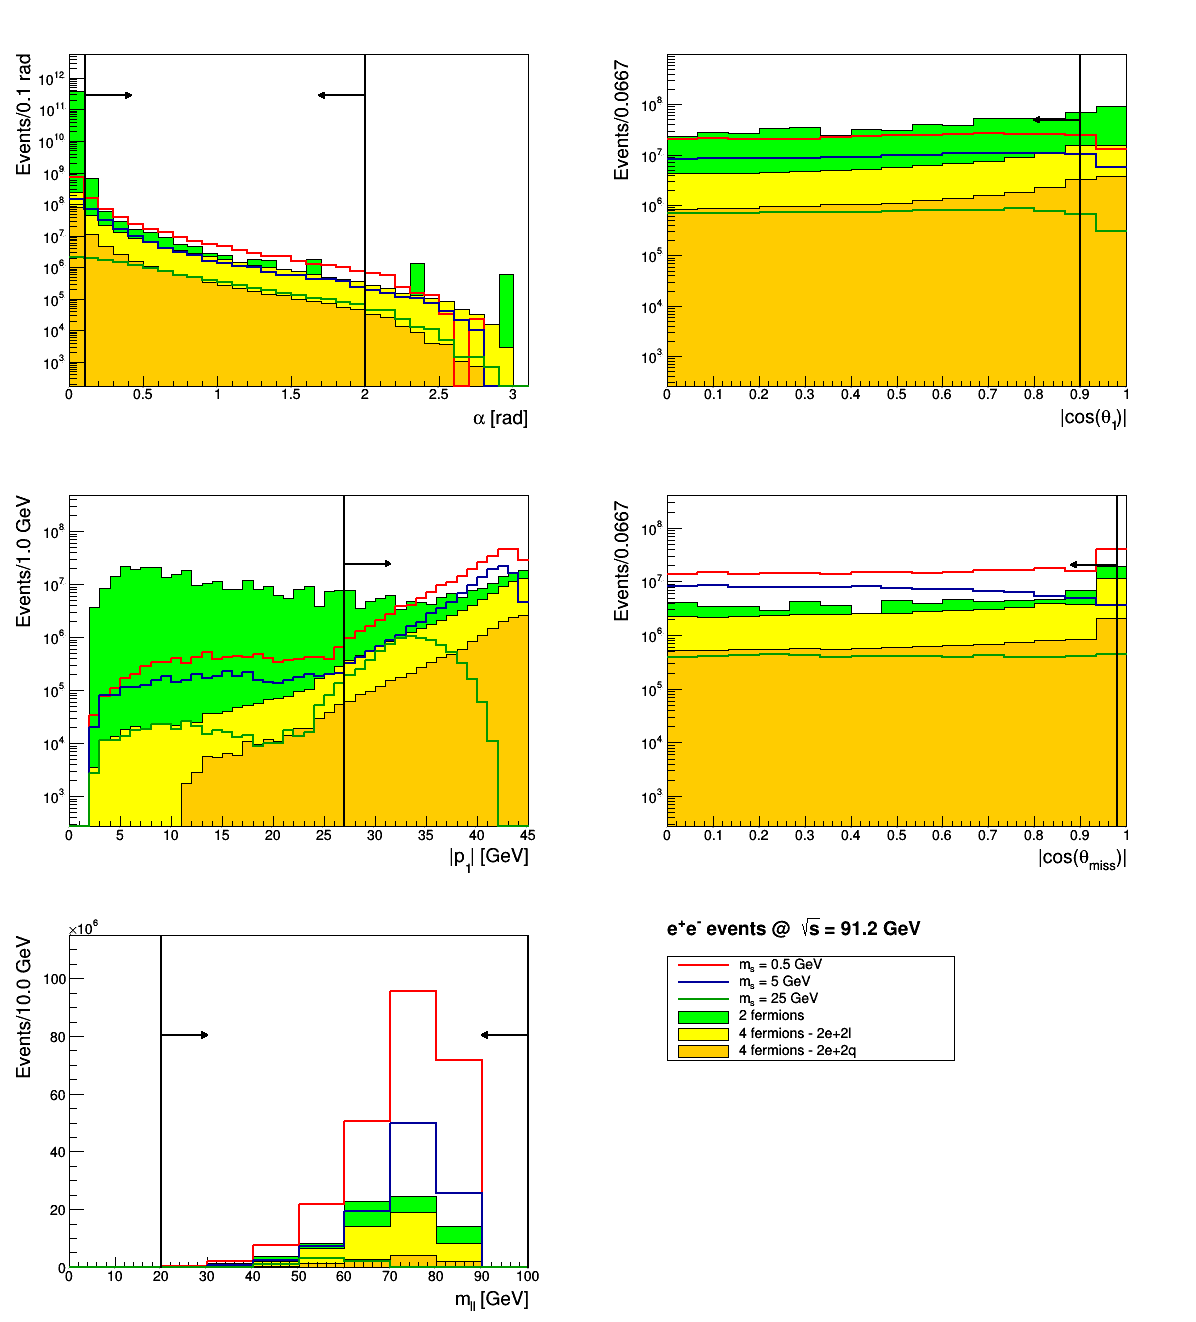
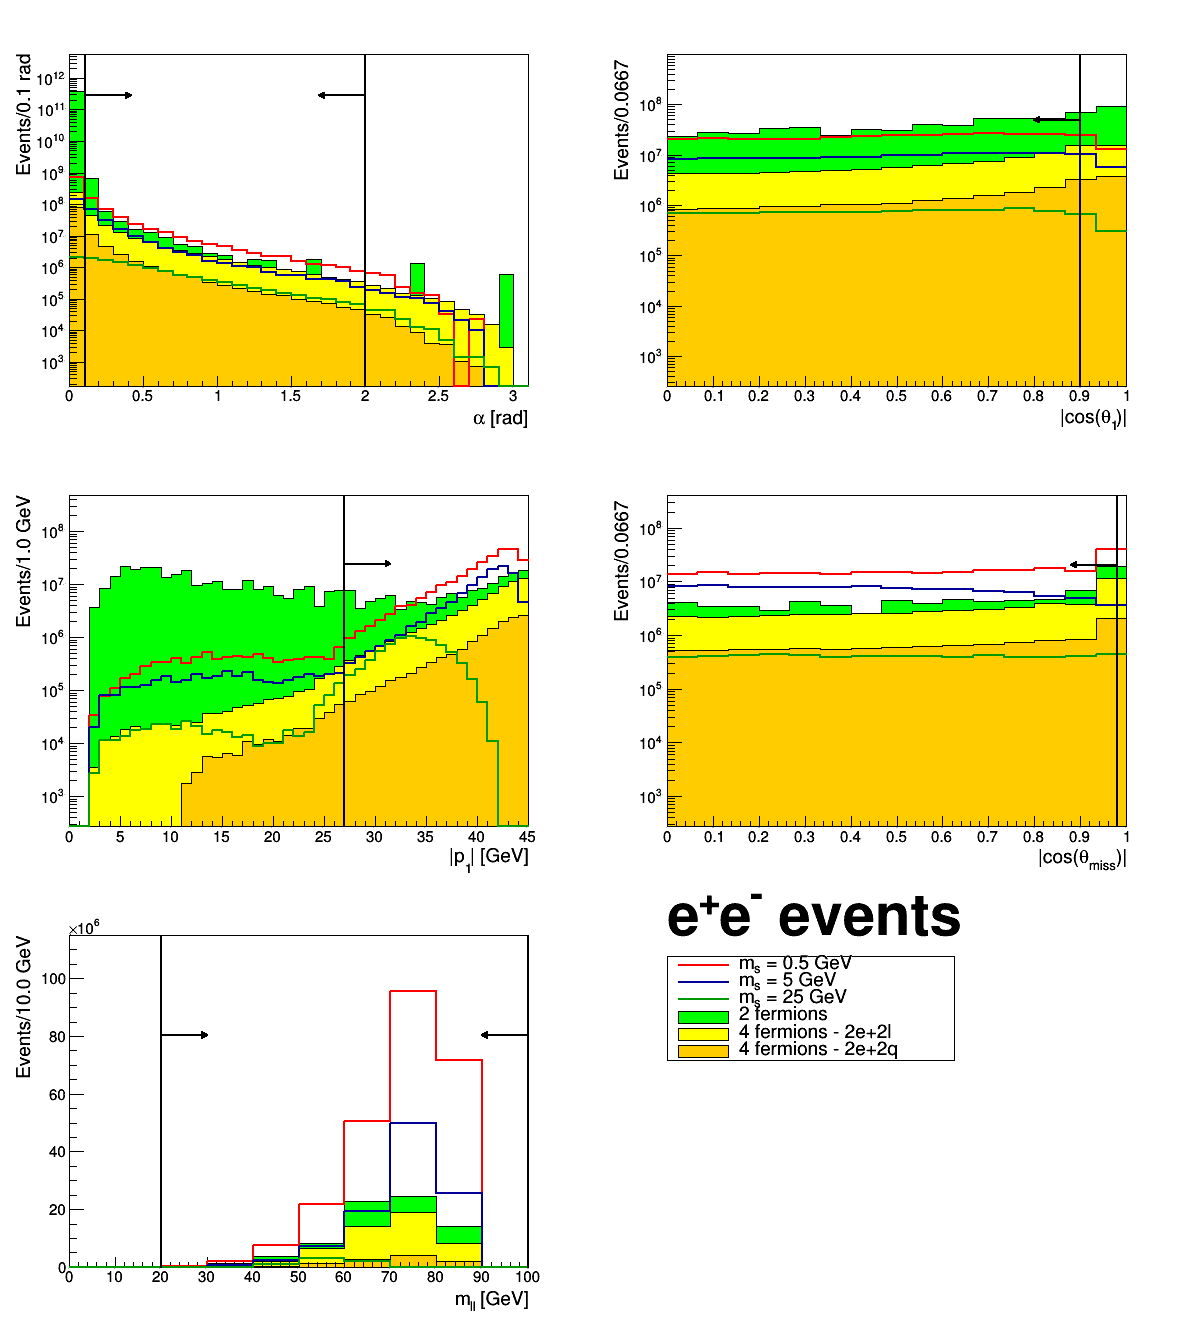
updates

diff --git a/scripts/cutflow_in_dev.py b/scripts/cutflow_in_dev.py
@@ -225,6 +225,7 @@ bkg_fillcolors = {
 bkg_linewidth = 1
 bkg_linestyle = 1
 
+hist_label_size = 0.04
 ## stacks and pads
 axis_title_textsize = 0.05
 sig_stack_options = "hist, same, nostack"
@@ -250,20 +251,22 @@ hist_pixel_y = 450
 num_hist_x = 2
 num_hist_y = 3
 ROOT.gStyle.SetHistTopMargin(0)
+ROOT.gStyle.SetLegendTextSize(0.05)
+#ROOT.gStyle.SetTitleFontSize(0.1)
 #ROOT.gStyle.SetHistBottomMargin(0)
 #ROOT.gStyle.SetPadTopMargin(0)
 #ROOT.gStyle.SetPadBottomMargin(0)
 canvas_titles = OrderedDict()
 canvas_title_x = 0.1
 canvas_title_y = 0.9
-canvas_titles['electron'] = "e^{+}e^{-} events @ #sqrt{s} = 91.2 GeV"
-canvas_titles['muon']     = "#mu^{+}#mu^{-} events @ #sqrt{s} = 91.2 GeV"
+canvas_titles['electron'] = "e^{+}e^{-} events"
+canvas_titles['muon']     = "#mu^{+}#mu^{-} events"
 canvas_title_x = 0.1
 canvas_title_y = 0.9
-canvas_title_textsize = 0.05
+canvas_title_textsize = 0.15
 pad_title_x = 0.4
 pad_title_y = 0.95
-pad_title_textsize = 0.05
+pad_title_textsize = 0.1
 ## legends
 legend_x_bl = 0.1 # x-coordinate of the bottom left point of the legend box
 legend_y_bl = 0.6
@@ -344,16 +347,16 @@ ctf_hist_file.cd()
 ########################
 # make cutflow tables #
 ########################
-'''
+#'''
 
 md_table_string = ctf.make_cutflow_table(sig_trees, sig_w, bkg_trees, bkg_w,
                                          delphes_path, sig_ntuple_filepaths, cuts,
-                                         sig_eff = True)
+                                         sig_eff = False)
 for chn, table in md_table_string.items():
 	mdfile = open(table_path + chn + "_cutflow_table_" + output_suffix + ".md", "w")
 	mdfile.write(table)
 	mdfile.close()
-'''
+#'''
 
 ######################################
 # merge trees from same bkg channel #
@@ -491,6 +494,9 @@ for fs_chn in channels:
 		ctf_plot_param[cutname]['ytitle'])
 		bkg_stacks[fs_chn][cutname].GetHistogram().SetTitleSize(
 		axis_title_textsize, "xy")
+		bkg_stacks[fs_chn][cutname].GetHistogram().SetLabelSize(
+			hist_label_size, "xy"
+		)
 		ROOT.gPad.Update()
 		sig_stacks[fs_chn][cutname].SetMinimum(ctf_plot_param[cutname]['ymin'])
 		sig_stacks[fs_chn][cutname].SetMaximum(ctf_plot_param[cutname]['ymax'])
@@ -634,9 +640,10 @@ for fs_chn in channels:
 			binning[fs_chn]['10'] = array('d', [-5.0, 0.0, 4.0, 9, 15.0,  30.0])
 #			binning[fs_chn]['10'] = array('d', [-5.0, 0.0, 4.0, 8.0, 12.0, 16.0, 30.0])
 
-			binning[fs_chn]['15'] = array('d', [-5, 0, 5, 10, 20, 30.0])
+			binning[fs_chn]['15'] = array('d', [-5, 10, 18, 30.0])
 #			binning[fs_chn]['15'] = array('d', [-5,-2,1,4,7,10, 14,17, 20, 30.0])
-			binning[fs_chn]['25'] = array('d', [-5,-4.5,-4,-3.5,-3,-2.5,-2,-1.5,-1,-0.5,0,0.5,1,1.5,2,2.5,3,3.5,4,4.5,5,5.5,6,6.5,7,7.5,8,9, 10,12, 15, 20, 30.0])
+			binning[fs_chn]['25'] = array('d', [-5, 0, 5, 10,15, 20,22, 30.0])
+#			binning[fs_chn]['25'] = array('d', [-5,-4.5,-4,-3.5,-3,-2.5,-2,-1.5,-1,-0.5,0,0.5,1,1.5,2,2.5,3,3.5,4,4.5,5,5.5,6,6.5,7,7.5,8,9, 10,12, 15, 20, 30.0])
 			#binning[fs_chn][pd_chn] = array('d',binning[fs_chn][pd_chn])
 print binning
 bkg_mrec_hists_rebin = OrderedDict()
@@ -740,6 +747,9 @@ for fs_chn in channels:
 			'Events/bin')
 		bkg_mrec_stack_rebin[fs_chn][sig_pd_chn].GetHistogram().SetTitleSize(
 			axis_title_textsize, "xy")
+		bkg_mrec_stack_rebin[fs_chn][sig_pd_chn].GetHistogram().SetLabelSize(
+			hist_label_size, "xy"
+		)
 		ROOT.gPad.Update()
 		sig_mrec_hists_rebin[fs_chn][sig_pd_chn].SetMinimum(
 			ctf_plot_param['mrec']['ymin'])
@@ -767,7 +777,9 @@ for fs_chn in channels:
 		                          + '_' + bin_option+ "_binning.png")
 
 ctf_hist_file.Close()
-#for key, f in sig_ntuple_filepaths.items():
-#	print key, hlp.get_num_evts(f, "Delphes")
-#for key, f in bkg_ntuple_filepaths.items():
-#	print key, hlp.get_num_evts(f, "Delphes")
+for key, f in sig_ntuple_filepaths.items():
+	delphes_filepath = delphes_path + hlp.get_delphes_filename(f)
+	print key, hlp.get_num_evts(delphes_filepath, "Delphes")
+for key, f in bkg_ntuple_filepaths.items():
+	delphes_filepath = delphes_path + hlp.get_delphes_filename(f)
+	print key, hlp.get_num_evts(delphes_filepath, "Delphes")
